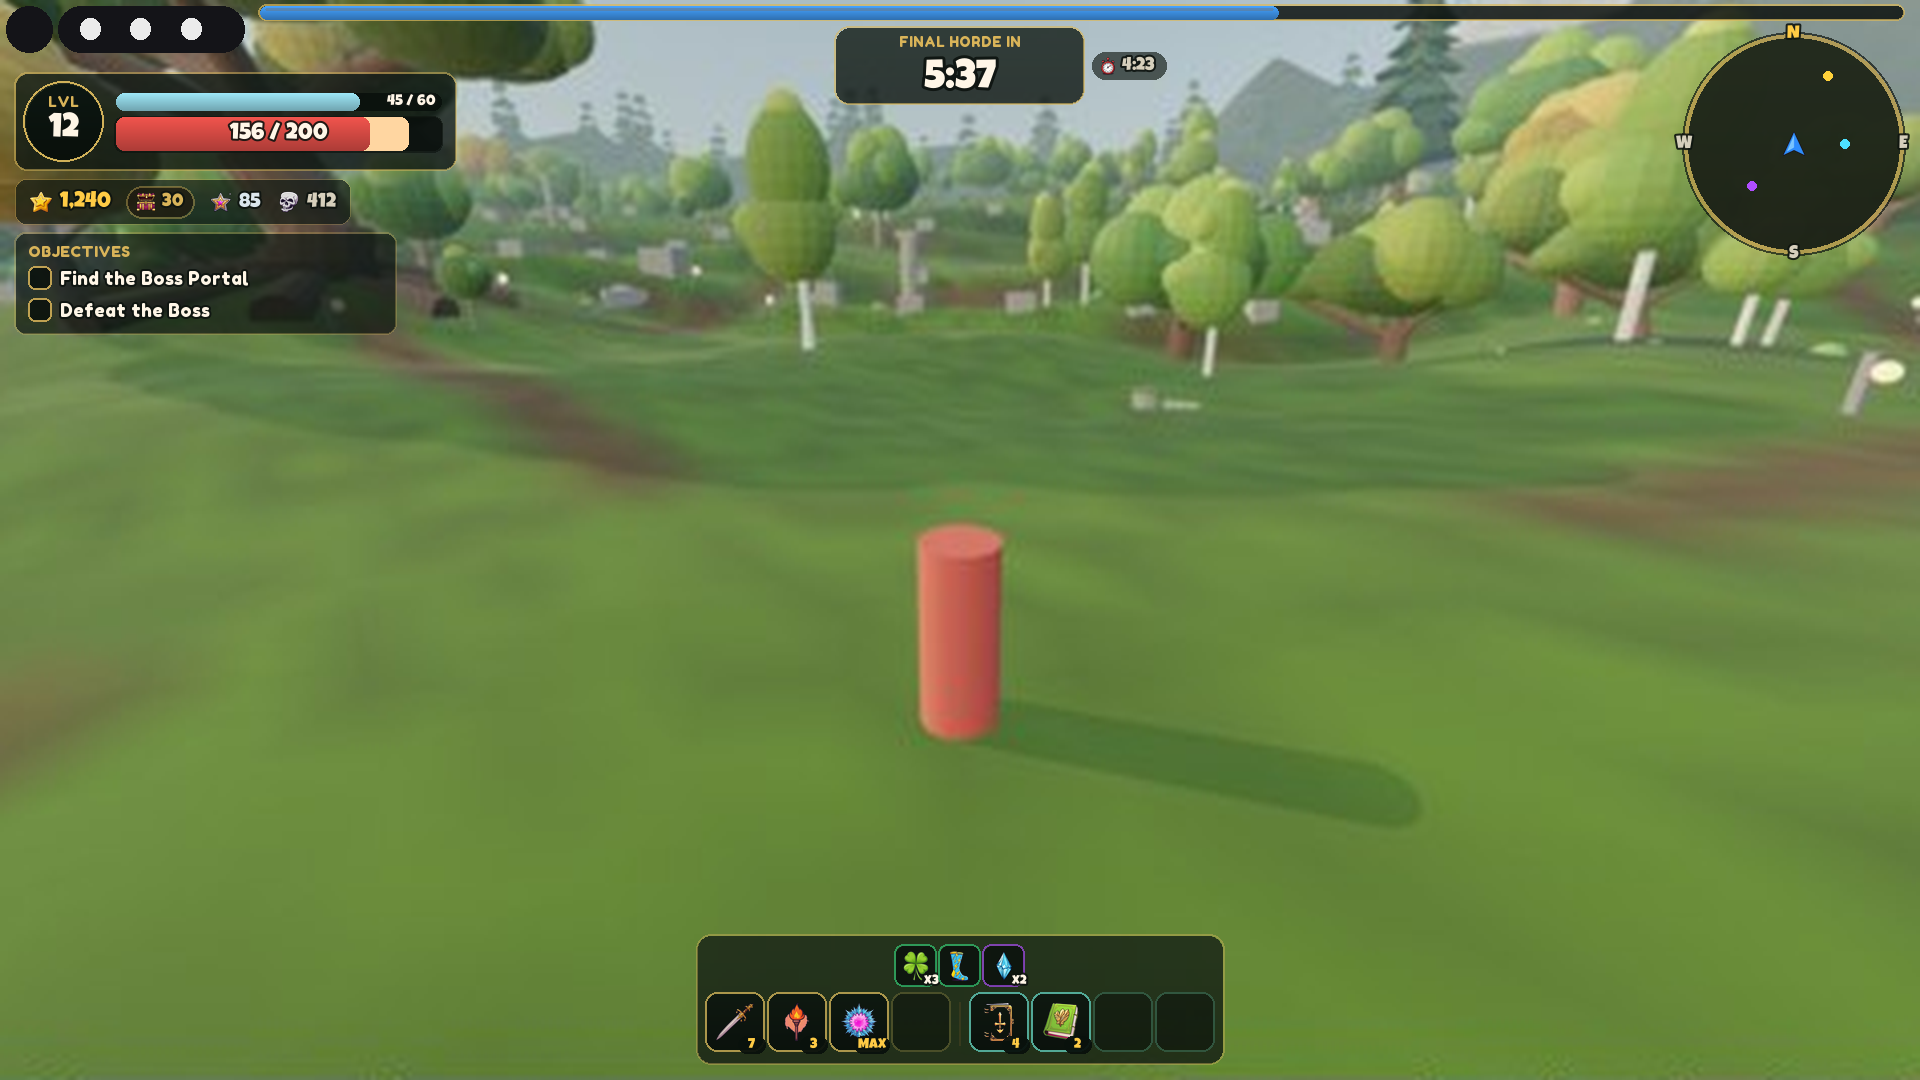
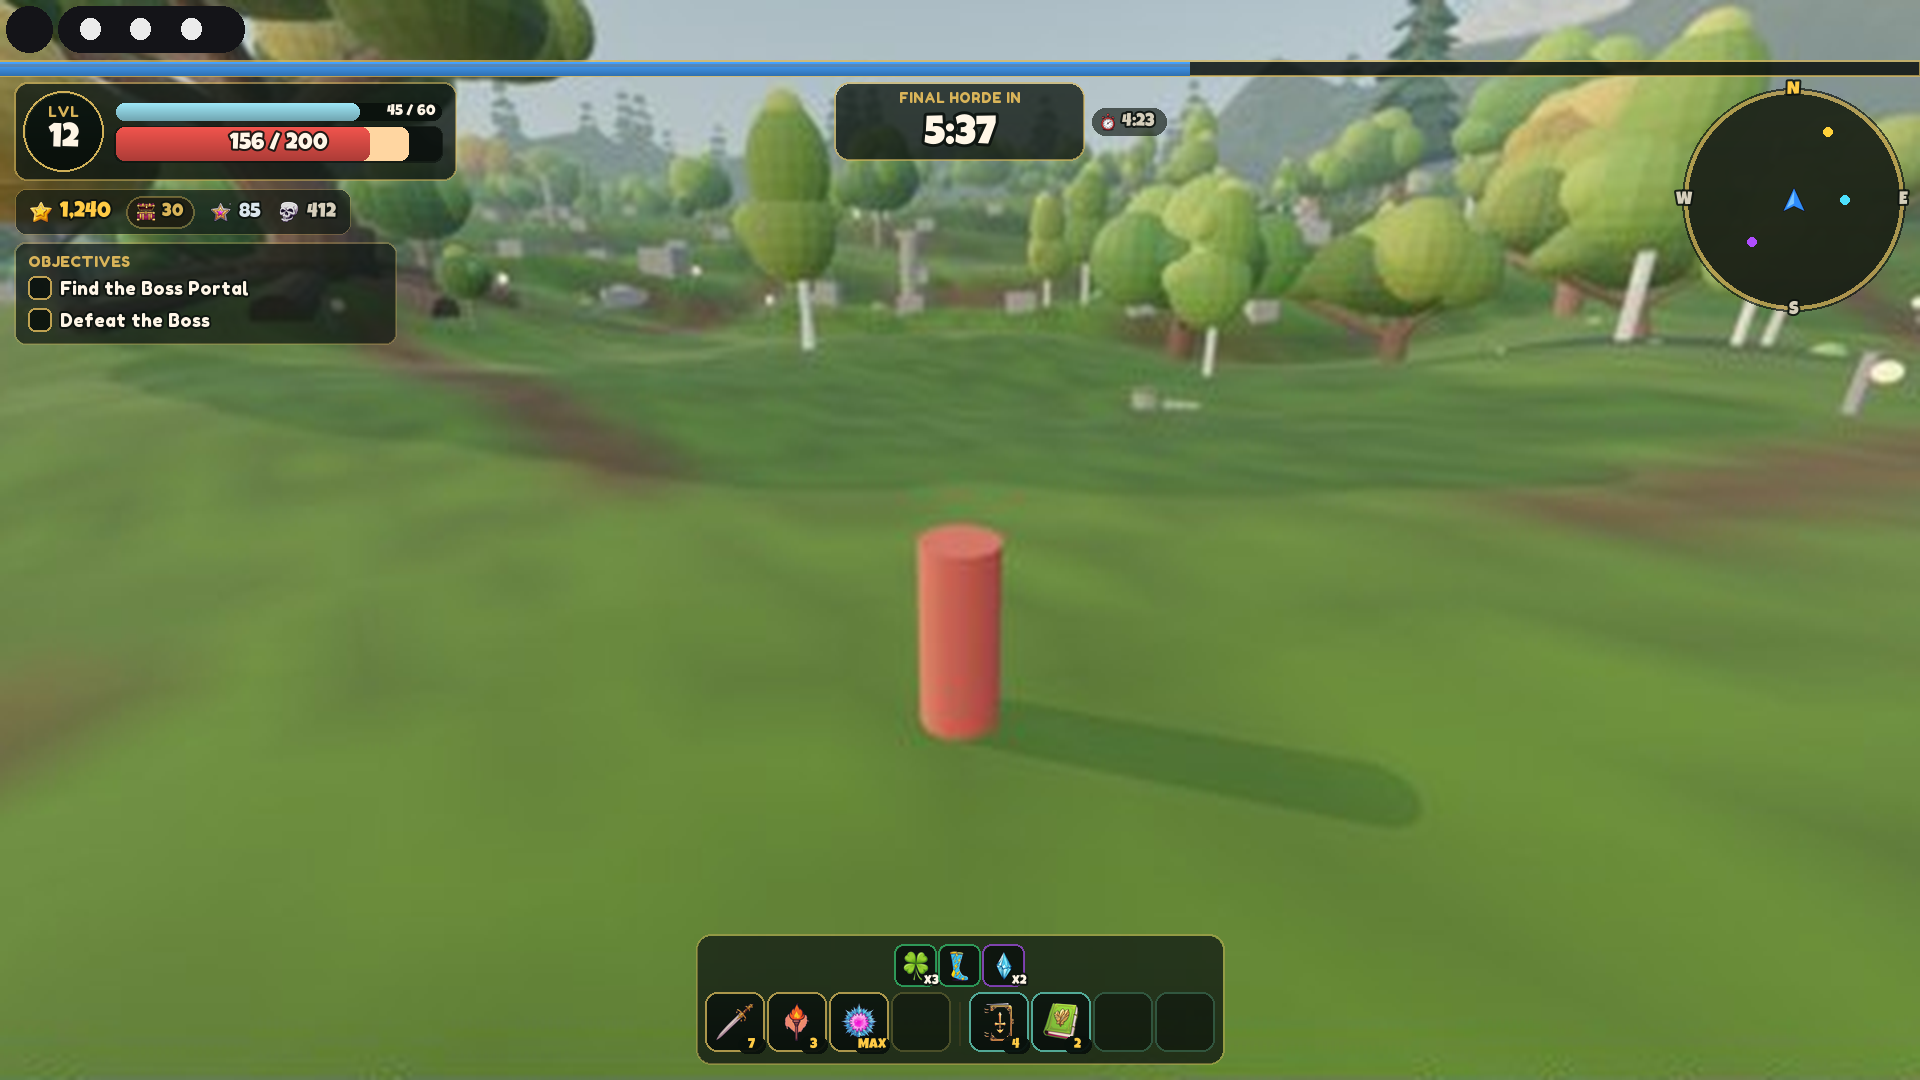
HUD: the XP strip spans the whole screen, edge to edge, under Roblox's bar (bonk-0.26.0-ux)
After the playtest the XP strip read as a short, off-centre segment: it sat in the
part of Roblox's top bar left free beside the buttons. It now runs the full width of
the viewport, 4 px under the bar, on a screen that ignores every inset (UDim2 width 1
from x 0, so centred by construction at any size and UIScale). Square ends, the same
14 px slim look; fill, rainbow until the last pick and the gold LVL MAX strip
unchanged. Every column starts under it; the top-bar rise and its BonkTopbarRise
switch are gone from Core/HudLayout.

Checks: offline, the four gates (HudLayout specs: full width and centred on desktop,
laptop, small, ultrawide and phone; every column and the minimap's letters below it).
Run in Studio by Claude (1593x752): strip measured x 0..1593 at y 60.6..70.3 under the
58 px bar; fill, rainbow over the level-up panel and gold LVL MAX edge to edge. Not yet
validated by a person.

Changed region(s): [[0.0, 0.0, 1.0, 0.3361]]

diff --git a/design/ui_specs/Hud_build.py b/design/ui_specs/Hud_build.py
@@ -362,26 +362,27 @@ def rainbow_keys(phase=0.0, blend=0.35):
 
 
 def xp_bar():
-    """The XpBar ScreenGui: one thin strip along the top of the screen, over the
-    level-up panels (DisplayOrder 21), so its rainbow shows while a choice waits.
-    HudController places it from Core/HudLayout (the free part of Roblox's top
-    bar, or just under it) and draws the fill and the rainbow."""
+    """The XpBar ScreenGui: one thin strip the whole width of the screen, edge to
+    edge just under Roblox's top bar, over the level-up panels (DisplayOrder 21)
+    so its rainbow shows while a choice waits. Its screen ignores every inset, so
+    the strip's left edge is the screen's; square ends, as it runs off both
+    sides. HudController places it from Core/HudLayout and draws the fill and
+    the rainbow."""
     strip = frame(
         "Strip",
-        (0, 1644, 0, 14),
-        (0, 262, 0, 6),
+        (1, 0, 0, 14),
+        (0, 0, 0, 62),
         z=1,
         children=[
-            frame("Back", (1, 0, 1, 0), z=1, fill=TRACK, alpha=0.18, children=[corner("pill"), shade(0.8), stroke(RIM, 1.5, 0.3)]),
+            frame("Back", (1, 0, 1, 0), z=1, fill=TRACK, alpha=0.18, children=[shade(0.8), stroke(RIM, 1.5, 0.3)]),
             frame(
                 "Fill",
                 (0.62, 0, 1, 0),
                 z=2,
                 fill=XP,
                 children=[
-                    corner("pill"),
                     shade(0.7),
-                    frame("Shine", (1, -10, 0, 3), (0, 5, 0, 2), z=3, fill="#FFFFFF", alpha=0.55, children=[corner("pill")]),
+                    frame("Shine", (1, 0, 0, 3), (0, 0, 0, 2), z=3, fill="#FFFFFF", alpha=0.55),
                 ],
             ),
             frame(
@@ -391,7 +392,6 @@ def xp_bar():
                 fill="#FFFFFF",
                 visible=False,
                 children=[
-                    corner("pill"),
                     node("UIGradient", "Gradient", {"Color": {"ColorSequence": {"keypoints": rainbow_keys()}}}),
                 ],
             ),
@@ -400,7 +400,7 @@ def xp_bar():
     return node(
         "ScreenGui",
         "XpBar",
-        {"DisplayOrder": 21, "ResetOnSpawn": False, "ZIndexBehavior": "Sibling", "IgnoreGuiInset": True, "Enabled": True},
+        {"DisplayOrder": 21, "ResetOnSpawn": False, "ZIndexBehavior": "Sibling", "IgnoreGuiInset": True, "ScreenInsets": "None", "Enabled": True},
         [strip],
     )
 
@@ -1108,7 +1108,7 @@ def apply_layout(tree, L, margin, strip=None):
         xp = L["xp"]
         bar = find(strip, "Strip")
         bar["properties"]["Position"] = U2(0, xp["x"], 0, xp["y"])
-        bar["properties"]["Size"] = U2(0, xp["w"], 0, xp["h"])
+        bar["properties"]["Size"] = U2(0, xp["w"], 0, xp["h"])  # the runtime sets (1 / scale) of the screen
     find(tree, "TimerPlate")["properties"]["Size"] = U2(0, sz["plate"], 0, sz["plateHeight"])
     find(tree, "BossBars")["properties"]["Size"] = U2(0, min(760, L["centreWidth"]), 0, 0)
     for mini in find_all(tree, "MiniBar"):

diff --git a/assets/ui/NOTES.Hud.md b/assets/ui/NOTES.Hud.md
@@ -2,7 +2,9 @@
 
 The in-run HUD was rebuilt in T2 (`bonk-0.21.0-t2`). On the T6/T7 line (`bonk-0.24.0-t6t7`)
 XP moved to a strip along the top of the screen, every top-centre element went into one
-column, and the strip wears a rainbow while a level-up waits for the player's choice. The old pipeline (`Hud_gen.py`,
+column, and the strip wears a rainbow while a level-up waits for the player's choice. After
+the playtest (`bonk-0.26.0-ux`) the strip spans the whole screen, edge to edge, just under
+Roblox's bar, and the HUD steps aside for the end screens. The old pipeline (`Hud_gen.py`,
 `Hud_post.py`, the roblox-ui skill's `ui_build.py`) is gone: running it would have
 overwritten this HUD.
 
@@ -52,15 +54,16 @@ Every contract name is kept; the paths changed (see `design/ui_contract.md`). Ne
 
 ## Layout rules
 
-- The XP strip runs along the top of the screen in the part of Roblox's top bar that
-  `GuiService.TopbarInset` reports free, beside Roblox's buttons, when that span holds the
-  timer plate and its clock; the plate (and the minimap, when its part of the bar is free
-  too, compass letters clear) sit under the strip. Otherwise (no free bar, Roblox's buttons
-  spread over the centre, or `Hud:SetAttribute("BonkTopbarRise", false)` on PlayerGui's
-  copy) the strip runs just under the bar across the safe width and every column starts
-  under it.
-- The left column always starts under Roblox's top bar. Whatever is stacked under the plate
-  starts below the bar.
+- The XP strip spans the whole screen, from its left edge to its right, 4 design px under
+  Roblox's top bar (`CoreUISafeInsets.top`), 14 px thick (16 compact). Its ScreenGui
+  ignores every inset (`ScreenInsets` None), so the strip is `UDim2(1, 0)` wide from x 0:
+  centred by construction at any size and scale. It carries no text, so a phone's
+  rounded corners or cut-out can only trim its very ends. (It used to sit in the free part
+  of the top bar beside Roblox's buttons, which left it short and off-centre.)
+- Every column starts under the strip: left column and timer plate one gap below it, the
+  minimap far enough down that its compass letters clear it.
+- The HUD and the strip are hidden in the lobby and behind the end screens (Victory, Wipe,
+  Results: the death screen and the results take the whole screen).
 - The top centre is one list: plate, LEVEL UP!, overtime pill, boss bars, banner, toast,
   pickup popup. Nothing there is placed by a share of the screen any more, so nothing can
   cover anything else; LEVEL UP! sits right under the plate, above the level-up panel. The
@@ -102,8 +105,13 @@ model. Nothing here was run in Studio by Claude; see the T2 commit for the playt
 
 Run in Studio by Claude for the top-of-screen pass (one player, a disposable place built
 from disk, 1593x792 and the iPhone 16 Pro simulator): the plate's caption clear of the
-digits; the strip beside Roblox's buttons; LEVEL UP! above the level-up panel; the rainbow
+digits; the strip then beside Roblox's buttons; LEVEL UP! above the level-up panel; the rainbow
 through two queued offers without a blink, through REFRESH and BANISH clicked on the panel,
 off with a fade after the last pick and at once when the run ended under an open offer;
 plate, pill, boss bar, four miniboss bars and a banner stacked without overlap; LVL MAX
 full and gold; the strip hidden on Skyhold and under the intro's letterbox.
+
+Run in Studio by Claude for the full-width strip (`bonk-0.26.0-ux`, one player, 1593x752):
+the strip measured from x 0 to 1593 (the whole viewport) at y 60.6 to 70.3, under the 58 px
+bar; its blue fill, the rainbow over the level-up panel and the gold LVL MAX strip all edge
+to edge; nothing under it overlapping.

diff --git a/design/ui_contract.md b/design/ui_contract.md
@@ -79,7 +79,7 @@ waits (Core/XpStrip).
 
 | Path | Class | Notes |
 |---|---|---|
-| `Strip` | Frame | the XP strip along the top of the screen: `Back` (track, `Stroke`), `Fill` (X scale; `Shine`), `Rainbow` (hidden; `Gradient`, redrawn as it flows) |
+| `Strip` | Frame | the XP strip, the whole width of the screen just under Roblox's bar (the screen ignores insets): `Back` (track, `Stroke`), `Fill` (X scale; `Shine`), `Rainbow` (hidden; `Gradient`, redrawn as it flows); square ends |
 
 ## ScreenGui `Choices` (DisplayOrder 20)
 
